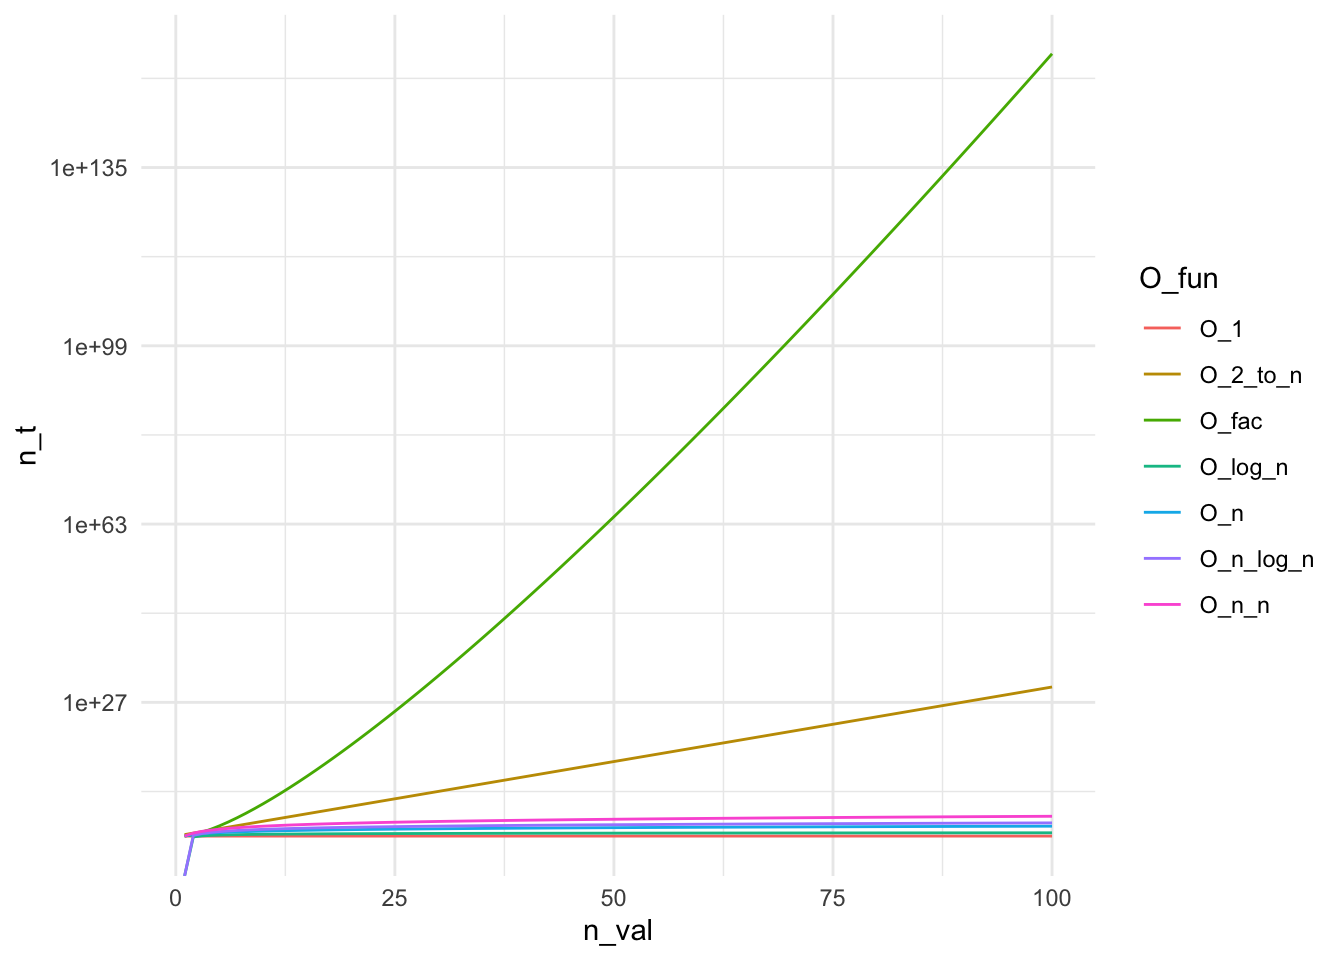
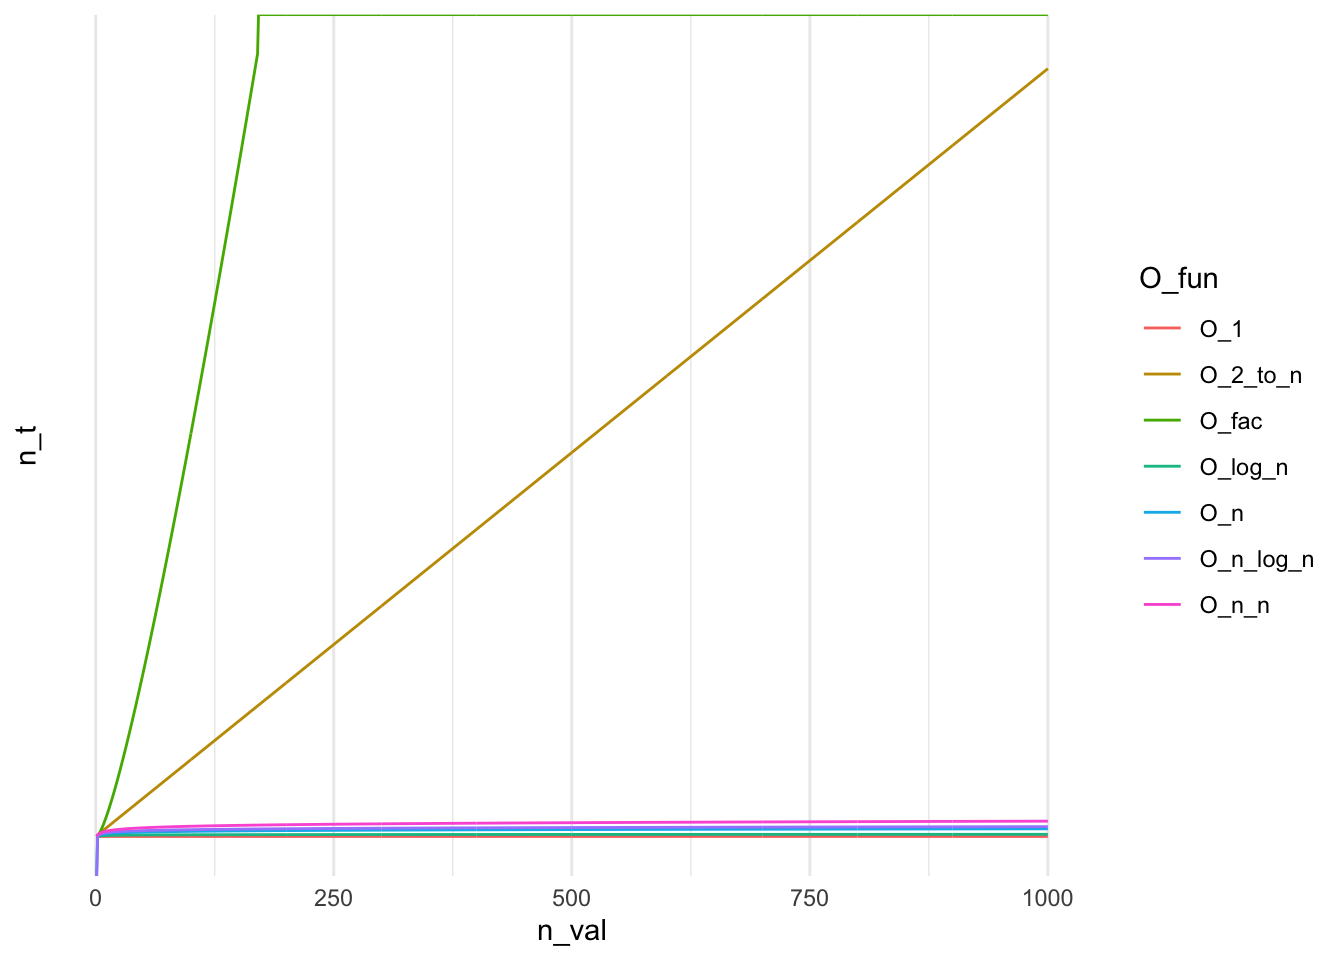
Content update

diff --git a/content/post/2021-12-09-beauty-of-r-and-big-o/index.html b/content/post/2021-12-09-beauty-of-r-and-big-o/index.html
@@ -79,9 +79,9 @@ O_fac     &lt;- function(n) {factorial(n)}</code></pre>
 <p>After defining the above I wanted a quick way of plotting the data. The easiest approach would be to define the table where I could execute all of the functions. Let’s say for <span class="math inline">\(n = 10\)</span> we could do the following:</p>
 <pre class="r"><code>n &lt;- 10
 suppressPackageStartupMessages(library(&quot;tidyverse&quot;))
-tibble(.rows = n) %&gt;% 
+tibble(.rows = n) %&gt;%
     mutate(O_n = map_dbl(1:n, O_1),
-           O_log_n = map_dbl(1:n, O_log_n)) </code></pre>
+           O_log_n = map_dbl(1:n, O_log_n))</code></pre>
 <pre><code>## # A tibble: 10 × 2
 ##      O_n O_log_n
 ##    &lt;dbl&gt;   &lt;dbl&gt;
@@ -111,11 +111,11 @@ Funs_O &lt;- mget(Fun_names) # Create a list of functions
 head(Funs_O, n = 2) # Preview</code></pre>
 <pre><code>## $O_1
 ## function(n) {(rep(1,length(n)))}
-## &lt;bytecode: 0x7fe495b8ba50&gt;
+## &lt;bytecode: 0x7fce3a9ea2e8&gt;
 ## 
 ## $O_2_to_n
 ## function(n) {2^n}</code></pre>
-<p>Now I needed to call each of those functions and pack the results into a tibble / data.frame. This is achieved by the code below.</p>
+<p>Now I needed to call each of those functions and pack the results into a tibble or a data.frame. This is achieved by the code below.</p>
 <pre class="r"><code>map_df(Funs_O, ~ map_dbl(1:n, ~ .x(.x)))</code></pre>
 <pre><code>## # A tibble: 10 × 7
 ##      O_1 O_2_to_n   O_fac O_log_n   O_n O_n_log_n O_n_n
@@ -131,11 +131,11 @@ head(Funs_O, n = 2) # Preview</code></pre>
 ##  9     1      512  362880   2.20      9     19.8     81
 ## 10     1     1024 3628800   2.30     10     23.0    100</code></pre>
 <p>I reckon it requires some explanation. <code>map_*</code> function are purrr’s take on R’s *apply family and map function on an element passed to the function. Starting from the inside the call <code>map_dbl(1:n, ~.x(.))</code> calls function <code>.x</code> on current element of the sequence, which is passed as <code>.</code> but another <code>.x</code> could also work!! The <code>map_df(O_funs, ....)</code> call is more cheeky as the list is actual collection of functions generated via <code>mget</code>. So instead of iterating over numbers of strings or data frames we are iterating over collection of closures. In that case our <code>.x</code> becomes a closure. Full solution for <span class="math inline">\(n = 1000\)</span> is provided below.</p>
-<pre class="r"><code>n &lt;- 1e2 # This is a bad habit of mine but while in R, I&#39;ve a strong preference for using 1e6 for million, 1e2 for hundred and so forth
+<pre class="r"><code>n &lt;- 1e3 # This is a bad habit of mine but while in R, I&#39;ve a strong preference for using 1e6 for million, 1e2 for hundred and so forth
 dta_big_o &lt;- map_df(mget(Fun_names), ~ map_dbl(1:n, ~ .x(.x)))</code></pre>
 <div id="preview" class="section level4">
 <h4>Preview</h4>
-<p>For <span class="math inline">\(n = 10,000\)</span> we obtain:</p>
+<p>For <span class="math inline">\(n = 1000\)</span> we obtain:</p>
 <table class="table" style="font-size: 12px; margin-left: auto; margin-right: auto;">
 <thead>
 <tr>
@@ -171,7 +171,7 @@ O_n_n
 2.0e+00
 </td>
 <td style="text-align:right;">
-1.0e+00
+1
 </td>
 <td style="text-align:right;">
 0.00
@@ -194,7 +194,7 @@ O_n_n
 4.0e+00
 </td>
 <td style="text-align:right;">
-2.0e+00
+2
 </td>
 <td style="text-align:right;">
 0.69
@@ -217,7 +217,7 @@ O_n_n
 8.0e+00
 </td>
 <td style="text-align:right;">
-6.0e+00
+6
 </td>
 <td style="text-align:right;">
 1.10
@@ -240,7 +240,7 @@ O_n_n
 1.6e+01
 </td>
 <td style="text-align:right;">
-2.4e+01
+24
 </td>
 <td style="text-align:right;">
 1.39
@@ -263,7 +263,7 @@ O_n_n
 3.2e+01
 </td>
 <td style="text-align:right;">
-1.2e+02
+120
 </td>
 <td style="text-align:right;">
 1.61
@@ -286,7 +286,7 @@ O_n_n
 6.4e+01
 </td>
 <td style="text-align:right;">
-7.2e+02
+720
 </td>
 <td style="text-align:right;">
 1.79
@@ -306,45 +306,22 @@ O_n_n
 1
 </td>
 <td style="text-align:right;">
-4.0e+28
+3.3e+299
 </td>
 <td style="text-align:right;">
-1.0e+148
+Inf
 </td>
 <td style="text-align:right;">
-4.55
+6.90
 </td>
 <td style="text-align:right;">
-95
+995
 </td>
 <td style="text-align:right;">
-432.6
+6868.2
 </td>
 <td style="text-align:right;">
-9025
-</td>
-</tr>
-<tr>
-<td style="text-align:right;">
-1
-</td>
-<td style="text-align:right;">
-7.9e+28
-</td>
-<td style="text-align:right;">
-9.9e+149
-</td>
-<td style="text-align:right;">
-4.56
-</td>
-<td style="text-align:right;">
-96
-</td>
-<td style="text-align:right;">
-438.2
-</td>
-<td style="text-align:right;">
-9216
+990025
 </td>
 </tr>
 <tr>
@@ -352,45 +329,22 @@ O_n_n
 1
 </td>
 <td style="text-align:right;">
-1.6e+29
+6.7e+299
 </td>
 <td style="text-align:right;">
-9.6e+151
+Inf
 </td>
 <td style="text-align:right;">
-4.57
+6.90
 </td>
 <td style="text-align:right;">
-97
+996
 </td>
 <td style="text-align:right;">
-443.8
+6876.1
 </td>
 <td style="text-align:right;">
-9409
-</td>
-</tr>
-<tr>
-<td style="text-align:right;">
-1
-</td>
-<td style="text-align:right;">
-3.2e+29
-</td>
-<td style="text-align:right;">
-9.4e+153
-</td>
-<td style="text-align:right;">
-4.58
-</td>
-<td style="text-align:right;">
-98
-</td>
-<td style="text-align:right;">
-449.3
-</td>
-<td style="text-align:right;">
-9604
+992016
 </td>
 </tr>
 <tr>
@@ -398,22 +352,22 @@ O_n_n
 1
 </td>
 <td style="text-align:right;">
-6.3e+29
+1.3e+300
 </td>
 <td style="text-align:right;">
-9.3e+155
+Inf
 </td>
 <td style="text-align:right;">
-4.60
+6.90
 </td>
 <td style="text-align:right;">
-99
+997
 </td>
 <td style="text-align:right;">
-454.9
+6884.0
 </td>
 <td style="text-align:right;">
-9801
+994009
 </td>
 </tr>
 <tr>
@@ -421,22 +375,68 @@ O_n_n
 1
 </td>
 <td style="text-align:right;">
-1.3e+30
+2.7e+300
 </td>
 <td style="text-align:right;">
-9.3e+157
+Inf
 </td>
 <td style="text-align:right;">
-4.61
+6.91
 </td>
 <td style="text-align:right;">
-100
+998
 </td>
 <td style="text-align:right;">
-460.5
+6891.9
 </td>
 <td style="text-align:right;">
-10000
+996004
+</td>
+</tr>
+<tr>
+<td style="text-align:right;">
+1
+</td>
+<td style="text-align:right;">
+5.4e+300
+</td>
+<td style="text-align:right;">
+Inf
+</td>
+<td style="text-align:right;">
+6.91
+</td>
+<td style="text-align:right;">
+999
+</td>
+<td style="text-align:right;">
+6899.9
+</td>
+<td style="text-align:right;">
+998001
+</td>
+</tr>
+<tr>
+<td style="text-align:right;">
+1
+</td>
+<td style="text-align:right;">
+1.1e+301
+</td>
+<td style="text-align:right;">
+Inf
+</td>
+<td style="text-align:right;">
+6.91
+</td>
+<td style="text-align:right;">
+1000
+</td>
+<td style="text-align:right;">
+6907.8
+</td>
+<td style="text-align:right;">
+1000000
 </td>
 </tr>
 </tbody>
@@ -458,8 +458,7 @@ O_n_n
 </div>
 <div id="remarks" class="section level1">
 <h1>Remarks</h1>
-<p>In a production setting, we probably wouldn’t rely on <code>ls(pattern = ...)</code> and <code>mget</code> sourcing objects by name. There even with setting up <code>mode</code> argument and limiting results to function there is a risk that our code could capture an undesired call that from one or another reason could appear in the environment where <code>ls</code> would happen to be executing search. Finally for quickly plotting trivial functions, like <span class="math inline">\(y=log(x)^2\)</span> can be easily achieved with use of dedicated software. Mac users will already have <a href="https://support.apple.com/en-gb/guide/grapher/gcalb3dec608/mac">Grapher</a> installed that meets that requirement.</p>
-<p>Nevertheless, ability to treat functions as objects is exceptionally useful, especially if we need to iterate through a number of function, and quickly compare the results on a set of data.</p>
+<p>In a production setting, we probably wouldn’t rely on <code>ls(pattern = ...)</code> and <code>mget</code> sourcing objects by name. Even with providing the <code>mode</code> argument for <code>mget</code> and limiting results to function there is a risk that our code could capture an undesired call that from one or another reason could appear in the environment where <code>ls</code> would happen to be executing search. Finally for quickly plotting trivial functions, like <span class="math inline">\(y=log(x)^2\)</span> can be easily achieved with use of dedicated software. Mac users will already have <a href="https://support.apple.com/en-gb/guide/grapher/gcalb3dec608/mac">Grapher</a> installed that meets that requirement. Personally, I appreciate use cases demonstrating R’s flexibility as <a href="https://adv-r.hadley.nz/functionals.html">functionals</a> and meta-programming are actual efficiency powerhouses.</p>
 </div>
 <div class="footnotes footnotes-end-of-document">
 <hr />
